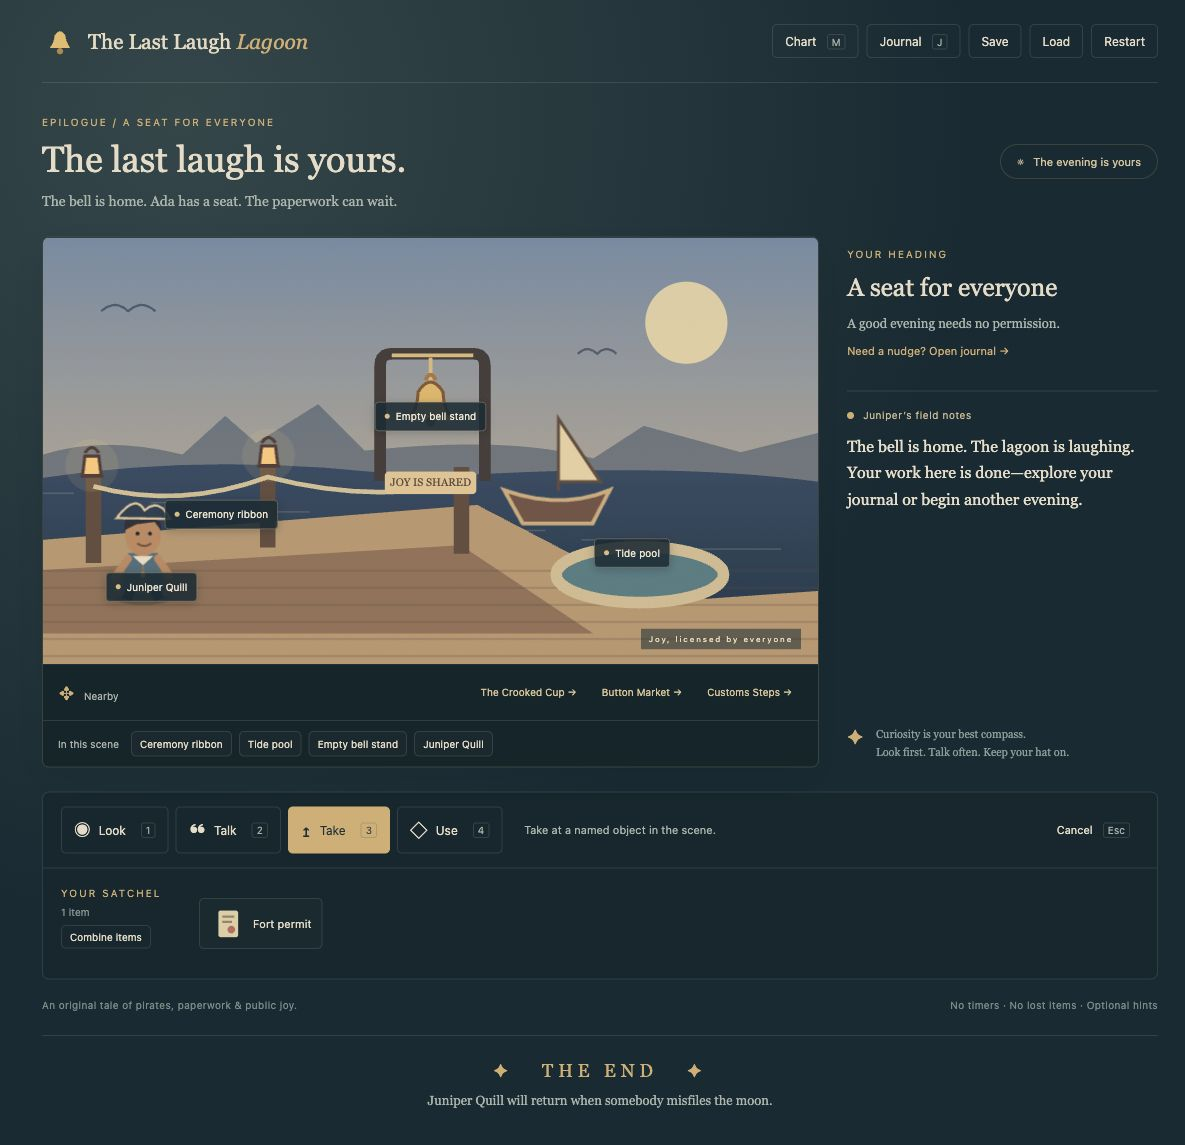
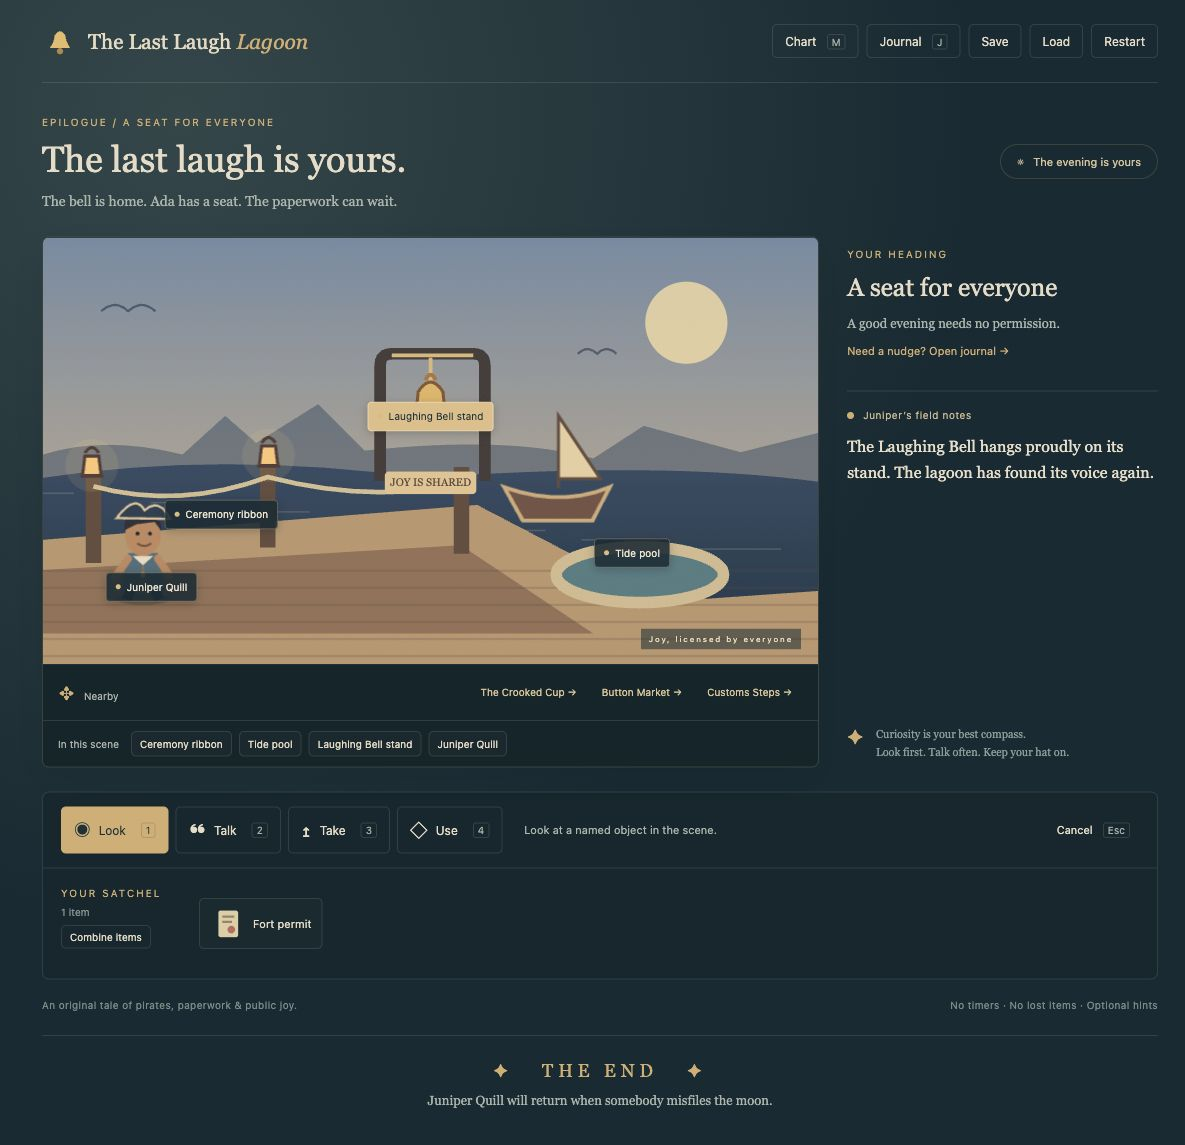
test: record visible Chrome completion and final independent QA evidence

diff --git a/src/domain.ts b/src/domain.ts
@@ -6,7 +6,7 @@ export type Milestone = typeof milestones[number];
 export type State = {version:1;location:Location;flags:Milestone[]};
 export const milestones = ['ribbonTaken','cupTaken','corkTaken','crankTaken','clothMade','buoyMade','lensRecovered','scoopMade','beaconFixed','signalSent','heardToast','heardMending','heardWeather','benefitAccepted','contributionAccepted','responsibilityAccepted','permitGranted','soapTaken','latchFreed','bellTaken','won'] as const;
 export const newGame = ():State => ({version:1,location:'wharf',flags:[]});
-export const has = (s:State,f:string) => s.flags.some(flag=>flag===f);
+export const has = (s:State,f:Milestone) => s.flags.some(flag=>flag===f);
 export const itemNames = {ribbon:'Ceremony ribbon',cup:'Brass cup',cork:'Giant cork',cloth:'Sailcloth',crank:'Hand crank',buoy:'Corked cup',lens:'Lamp lens',scoop:'Wind scoop',soap:'Dock soap',bell:'Laughing Bell',permit:'Fort permit'} as const;
 export type Item = keyof typeof itemNames;
 const ownership:Record<Item,[Milestone,Milestone?]> = {ribbon:['ribbonTaken','clothMade'],cup:['cupTaken','buoyMade'],cork:['corkTaken','buoyMade'],cloth:['clothMade','scoopMade'],crank:['crankTaken','scoopMade'],buoy:['buoyMade','lensRecovered'],lens:['lensRecovered','signalSent'],scoop:['scoopMade','beaconFixed'],soap:['soapTaken','latchFreed'],bell:['bellTaken','won'],permit:['permitGranted']};
@@ -114,7 +114,7 @@ export function transition(s:State,a:Action):{state:State;message:string}{
  }
  return result('Nothing changes.');
 }
-export const requirements:Record<string,Milestone[]>={clothMade:['ribbonTaken'],buoyMade:['cupTaken','corkTaken'],lensRecovered:['buoyMade'],scoopMade:['clothMade','crankTaken'],beaconFixed:['scoopMade'],signalSent:['beaconFixed','lensRecovered'],benefitAccepted:['heardToast'],contributionAccepted:['benefitAccepted','heardMending'],responsibilityAccepted:['contributionAccepted','heardWeather'],permitGranted:['responsibilityAccepted'],latchFreed:['soapTaken','permitGranted','signalSent'],bellTaken:['latchFreed'],won:['bellTaken']};
+export const requirements:Partial<Record<Milestone,Milestone[]>>={clothMade:['ribbonTaken'],buoyMade:['cupTaken','corkTaken'],lensRecovered:['buoyMade'],scoopMade:['clothMade','crankTaken'],beaconFixed:['scoopMade'],signalSent:['beaconFixed','lensRecovered'],benefitAccepted:['heardToast'],contributionAccepted:['benefitAccepted','heardMending'],responsibilityAccepted:['contributionAccepted','heardWeather'],permitGranted:['responsibilityAccepted'],latchFreed:['soapTaken','permitGranted','signalSent'],bellTaken:['latchFreed'],won:['bellTaken']};
 export function encodeSave(s:State):string{return JSON.stringify(s);}
 export function decodeSave(raw:string):State|null{
  try{
@@ -125,12 +125,13 @@ export function decodeSave(raw:string):State|null{
   if(Object.keys(v).sort().join(',')!=='flags,location,version'||v.version!==1||typeof v.location!=='string'||!locations.includes(v.location as Location)||!Array.isArray(v.flags))return null;
   const flags=v.flags;
   if(flags.length>milestones.length||flags.some(f=>typeof f!=='string'||!milestones.includes(f as typeof milestones[number]))||new Set(flags).size!==flags.length)return null;
-  if(flags.some(f=>(requirements[f]||[]).some(r=>!flags.includes(r))))return null;
+  const checked=flags as Milestone[];
+  if(checked.some(f=>(requirements[f]||[]).some(r=>!checked.includes(r))))return null;
   // The final appeal grants both milestones atomically.
   if(flags.includes('responsibilityAccepted')!==flags.includes('permitGranted'))return null;
   if(v.location==='fort'&&(!flags.includes('permitGranted')||!flags.includes('signalSent')))return null;
   if(flags.includes('won')&&v.location!=='wharf')return null;
-  return {version:1,location:v.location as Location,flags:[...flags]};
+  return {version:1,location:v.location as Location,flags:[...checked]};
  }catch{return null;}
 }
 export function objective(s:State):{title:string;steps:string[]}{

diff --git a/docs/qa/REPORT.md b/docs/qa/REPORT.md
@@ -1,0 +1,35 @@
+# QA evidence — 2026-10-12 UTC
+
+## Automated domain verification
+
+16 tests passed. Exhaustive public-transition enumeration found **1,473 reachable progression states**, with **6,180 successful progression transitions**. All states passed save roundtrip/validation and observational-hint checks; every state has a route to the ending. Movement is factored out only because every unlocked scene is freely reachable through the chart; candidate fort actions still go through the public permit-and-signal gate. Terminal progress is stable. A reverse proof processes states by decreasing milestone count, not incidental discovery order.
+
+Targeted tests cover exactly-once acquisitions/rewards/consumption, both recipe orders, absent items, wrong targets and verbs, premature lens use, locked bell, both gate requirements, revisitable dialogue, stage prerequisites, wrong answers after accepted answers, appeal before lighthouse, terminal inspection, restart isolation, corrupt/unknown/duplicate/inconsistent saves and hints after out-of-order lens recovery. TDD evidence is in [TDD.md](TDD.md). These automated routes are fixtures, not claimed as browser playthroughs.
+
+TypeScript strict typecheck and Vite production build passed. Dependency audit found **0 vulnerabilities**. No runtime dependencies, fonts, image hosts, analytics or backend. Bundled page, JavaScript, CSS and favicon must each return HTTP 200; final verification commands and results are recorded in the delivery response.
+
+## Actual visible Chrome completion
+
+Supported local Chrome extension browser, ordinary native clicks and key input plus visible Playwright button clicks. No unlock, restriction bypass, injected state, localStorage fixture, console progression call or hidden solution API was used. Native keyboard 1–4 / M / J / Esc worked.
+
+One complete adventure was played through visible controls, segmented by manual save/resume across reviewed production rebuilds. **Hint-assisted QA:** all three optional hint levels were deliberately displayed to verify graduation. This is not an unassisted-play claim.
+
+Visible route: wharf ribbon → early Customs visit and blocked fort → out-of-order appeal answers and hat brag → save/reload → Orrin storm clue and crank → Miri repair clue/cork → wrong ribbon-on-cork → ribbon trade → Pella soap before toast, repeated soap branch, cup → interrupted combine/cancel → wrong cup+soap pair → cork+cup (reverse recipe order) → tide-pool lens → journal nudge/direction/full solution → premature lens use preserving lens → crank+cloth (reverse order) → vane repair → lens installation → signal-only blocked fort → Ada contribution-before-benefit → benefit, wrong brag, contribution, responsibility → permit → restart cancel → fort → locked bell take → latch observation → soap use and bell acquisition on mobile → repeated bell take → manual save → actual restart → load cancel then actual load → return to wharf and hang bell → **THE END**.
+
+The completed screen showed Ada taking a seat, Juniper's original ending narration, the restored bell, and only the permit remaining in the bag. Post-ending Look at Juniper and the bell stand worked; attempting another acquisition changed no progress. Completed save resumed after the final code rebuild.
+
+Second **partial replay**, not a second full completion: actual fresh restart, then **Pella → Miri → Orrin** civic clues (first run was **Orrin → Miri → Pella**), followed by all three Ada answers. Permit acquired before any lighthouse repairs; fort remained blocked without the signal. This verifies alternate order and independence through real controls.
+
+## Visual and accessibility checks
+
+All six illustrated locations were visited and screenshots inspected. Evidence includes [tavern](tavern.jpg), [market](market.jpg), [weather](weather.jpg), [customs](customs.jpg), [mobile fort](mobile-fort.jpg), [mobile ending](mobile-ending.jpg) and [desktop ending](desktop-ending.jpg).
+
+390×844 responsive viewport tested (Chrome reported 375px document client width due to its scrollbar). Final document scrollWidth = clientWidth = 375; scene width 341; no horizontal overflow. Mobile named controls were enlarged to 44px targets and used to release/take the bell and complete the ending. Narrative, satchel, chart, and confirmation controls remained accessible with vertical scrolling. Desktop default viewport was restored.
+
+Tab from the journal's last button wrapped to its first button; Esc closed it. Background controls were inert while modals were open. Named alternatives below the art offer the same scene actions; live narration reports outcomes. Developer emulation of prefers-reduced-motion yielded boat animationName **none** and was reset. No application console errors observed; browser-extension warnings were distinguished from game logs.
+
+## Independent reviews and remaining limits
+
+Two separate agents reviewed specification and standards, then rechecked the fixes. Spec reviewer independently ran 16 tests and typecheck; no remaining substantive findings. Standards reviewer found no hard violation; optional final milestone-query typing refinement was also applied. See [reviews](../reviews.md).
+
+Manual saves are browser-local and explicit; no cloud sync. Corrupt save rejection is automated domain evidence, not a deliberately corrupted Chrome-storage experiment. No screen-reader-device audit, touch hardware, Safari/Firefox run, music, voice acting or public deployment. The production server is loopback-only and session-only; restart after reboot is manual. Existing projects and ports 5173–5207 were not changed. No sidebar registration is claimed.

diff --git a/docs/reviews.md b/docs/reviews.md
@@ -15,3 +15,9 @@ Reviewer: spec_review. One partial requirement: specification promises “Termin
 Resolution: post-ending Look now provides scene observations without changing state. Added a regression test that failed before the fix and passes after it. Browser QA confirmed inspection and stable terminal acquisition attempts. A second observed UX issue—hints suggesting recovery of a lens already held—received a failing regression and state-aware correction.
 
 Initial findings: Standards 0 hard / 2 heuristic; Spec 1 partial. All addressed. Follow-up independent verification is recorded below after the final code review.
+
+## Follow-up verification
+
+On `1f21539...8de961e`, the Spec reviewer independently ran **16/16 tests plus typecheck**, found no remaining substantive specification issue, and confirmed the terminal inspection, state-aware hints, mobile controls and descriptive updates. The Standards reviewer found no substantive violation or regression; suggested making milestone query arguments and requirements keys typed as well. That small refinement was applied: `has` accepts Milestone and `requirements` uses Partial<Record<Milestone, Milestone[]>>, with untrusted flags validated before casting. Runtime behavior is unchanged and final tests/typecheck pass.
+
+Final findings: Standards **0 hard / 0 unresolved heuristic**; Spec **0 unresolved**. Browser completion, final SHA and CI were verified by the primary implementer and are not attributed to these read-only reviewers.

diff --git a/docs/workflow.md b/docs/workflow.md
@@ -1,0 +1,12 @@
+# Workflow provenance
+
+No local Matt Pocock skill installation was found. Read official definitions directly from mattpocock/skills:
+
+- [Grill with Docs](https://github.com/mattpocock/skills/blob/main/skills/engineering/grill-with-docs/SKILL.md)
+- [Grilling](https://github.com/mattpocock/skills/blob/main/skills/productivity/grilling/SKILL.md)
+- [Domain Modeling](https://github.com/mattpocock/skills/blob/main/skills/engineering/domain-modeling/SKILL.md), including glossary/ADR formats
+- [Implement](https://github.com/mattpocock/skills/blob/main/skills/engineering/implement/SKILL.md)
+- [TDD](https://github.com/mattpocock/skills/blob/main/skills/engineering/tdd/SKILL.md), including tests and mocking references
+- [Code Review](https://github.com/mattpocock/skills/blob/main/skills/engineering/code-review/SKILL.md)
+
+The user's explicit instruction to choose recommended defaults replaces the interview/confirmation rounds with the documented autonomous design tree. The task explicitly authorizes progression/persistence seams and targeted red/green tests. The local specification supplies the issue source and the initial docs commit supplies the review base. Two independent subagents were used only for the requested reviews, as the Code Review definition requires. Environment facts were established by direct read-only tools. Review findings were fixed and independently rechecked before final delivery.
